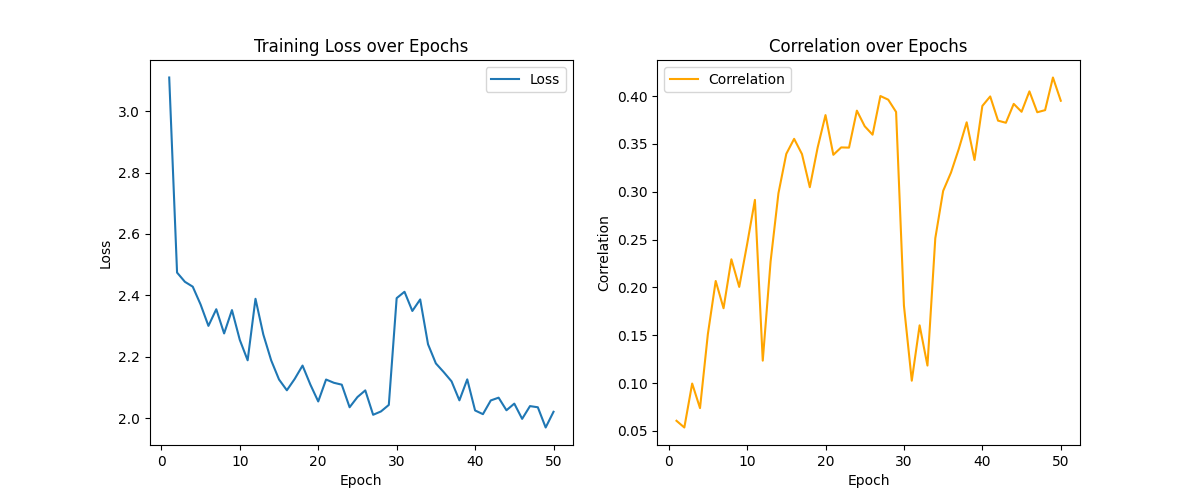
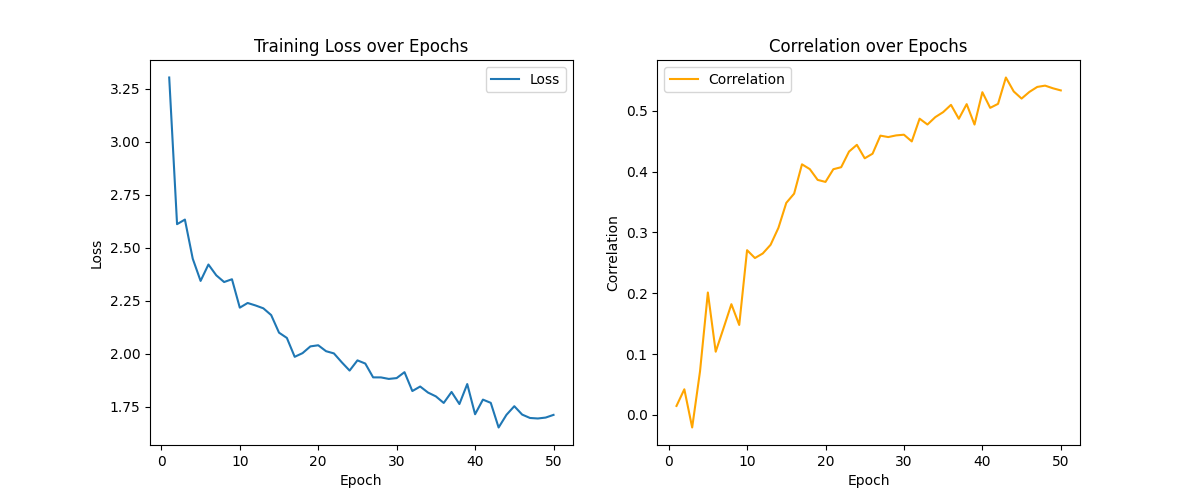
update result

diff --git a/preprocessing_project.py b/preprocessing_project.py
@@ -607,7 +607,7 @@ def training_vim(train_x, train_y):
 
     # Create a TensorDataset and DataLoader
     dataset = TensorDataset(train_x_t, train_y_t)
-    train_loader = DataLoader(dataset, batch_size=1, shuffle=True)
+    train_loader = DataLoader(dataset, batch_size=2, shuffle=True)
 
     # Initialize the Vim model
     model = Vim(
